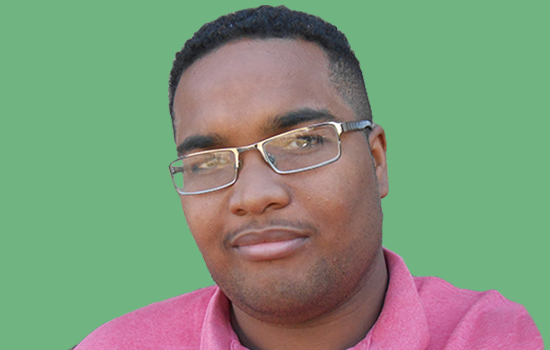
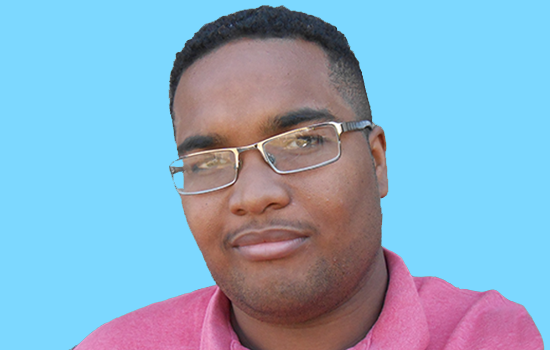
add color blue to styling

diff --git a/public/css/style.css b/public/css/style.css
@@ -3,7 +3,9 @@ h1,h2,h3,h4,h5{
   font-family: 'Oswald', sans-serif;
   font-weight: 300;
 }
-
+h1{
+ color:#87CEEB
+}
 p{
   font-family: 'Roboto', sans-serif;
 }
@@ -41,10 +43,6 @@ h1{
   border-radius: 5px;
 }
 
-.text-light{
-  color: #666;
-}
-
 .button{
   background-color: #333;
 }
@@ -80,7 +78,7 @@ a:hover{
 
   .portfolio-me p{
     font-size: 14px;
-    color: #999;
+    color: black;
   }
 
   .portfolio-me a{
@@ -129,6 +127,14 @@ a:hover{
 
   .portfolio-index .thumbnail{
     margin-bottom: 5px;
+  }
+
+  .off-canvas, .position-left, .reveal-for-large, .portfolio-me, .is-transition-push{
+    background-color: #87CEEB;
+  }
+  
+  .grid-y .shrink img{
+    border-radius: 50%;
   }
 
   .portfolio-index a{
